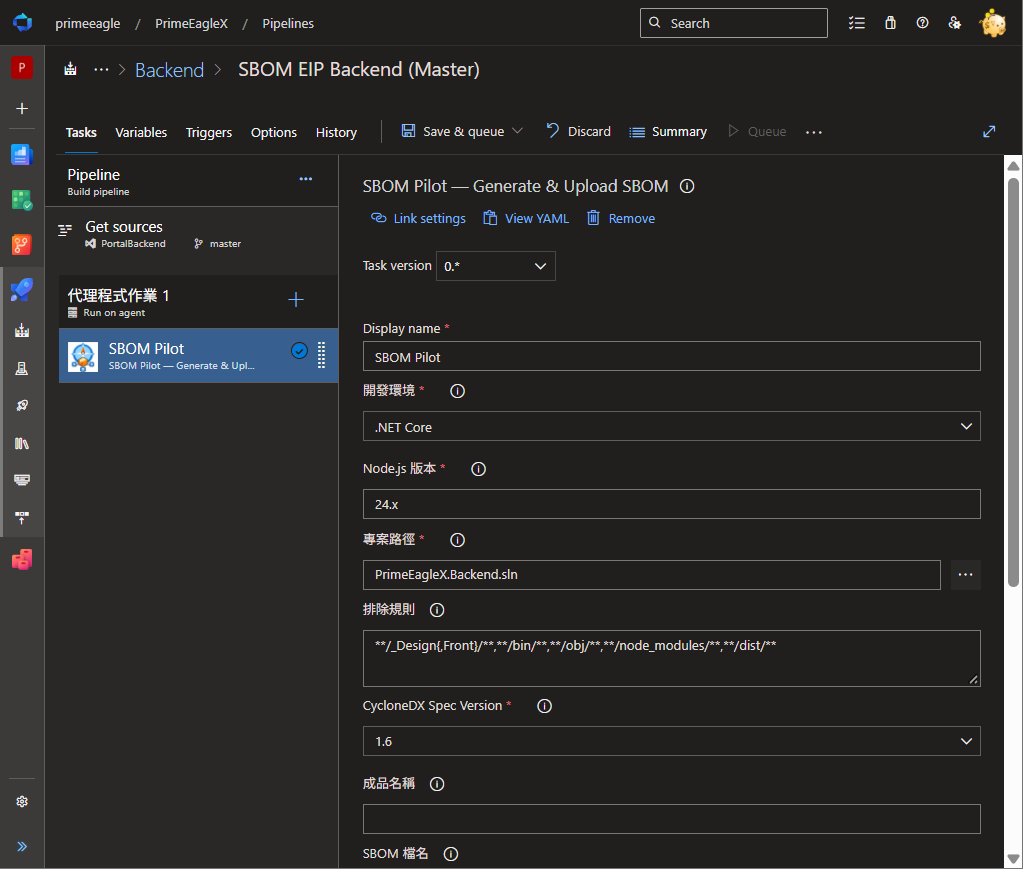
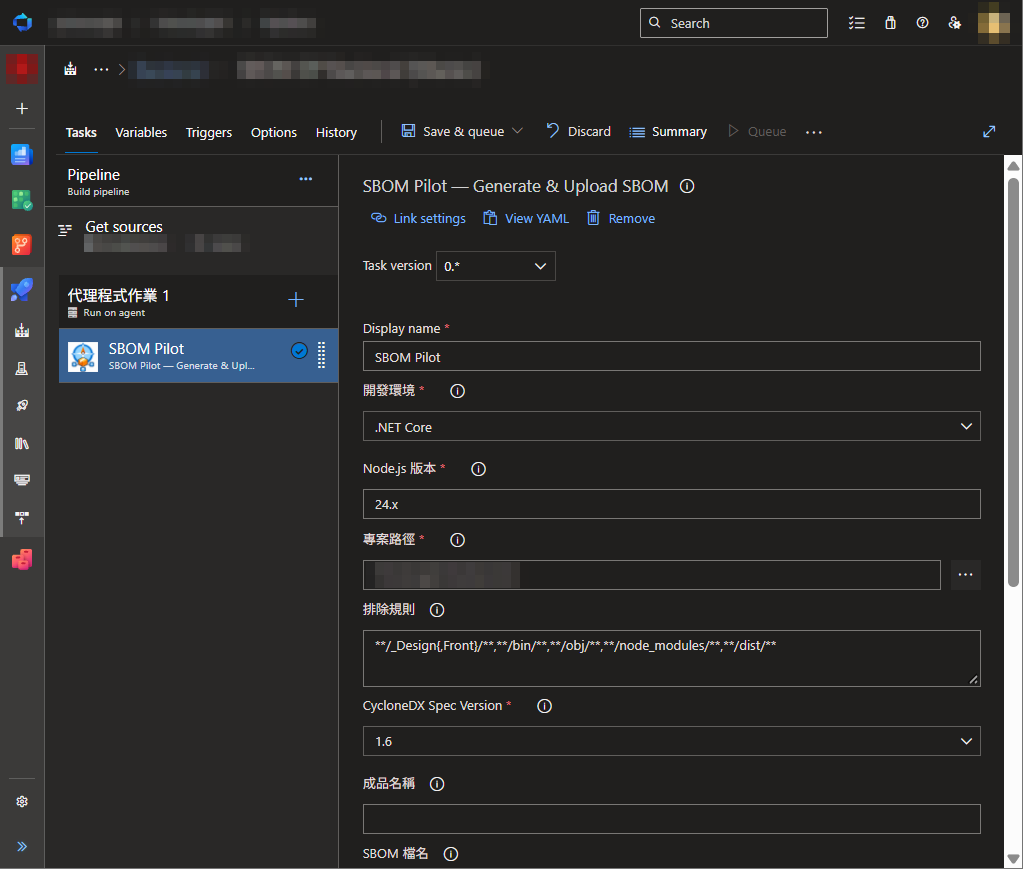
docs(images): README 截圖遮蔽組織、使用者與實際弱點資訊

diff --git a/images/README.md b/images/README.md
@@ -15,7 +15,7 @@
 
 ## README 截圖
 
-`screenshots/` 是維護者於 2026-11-12 在 Azure DevOps Services 實際操作時擷取的畫面，供 README 說明使用。
+`screenshots/` 是維護者於 2026-11-12 在 Azure DevOps Services 實際操作時擷取的畫面，供 README 說明使用。組織與專案名稱、管線與建置標題、使用者頭像與名稱、專案路徑，以及實際弱點的套件、版本與編號已打馬賽克。
 
 | 檔案 | 用途 |
 | --- | --- |
